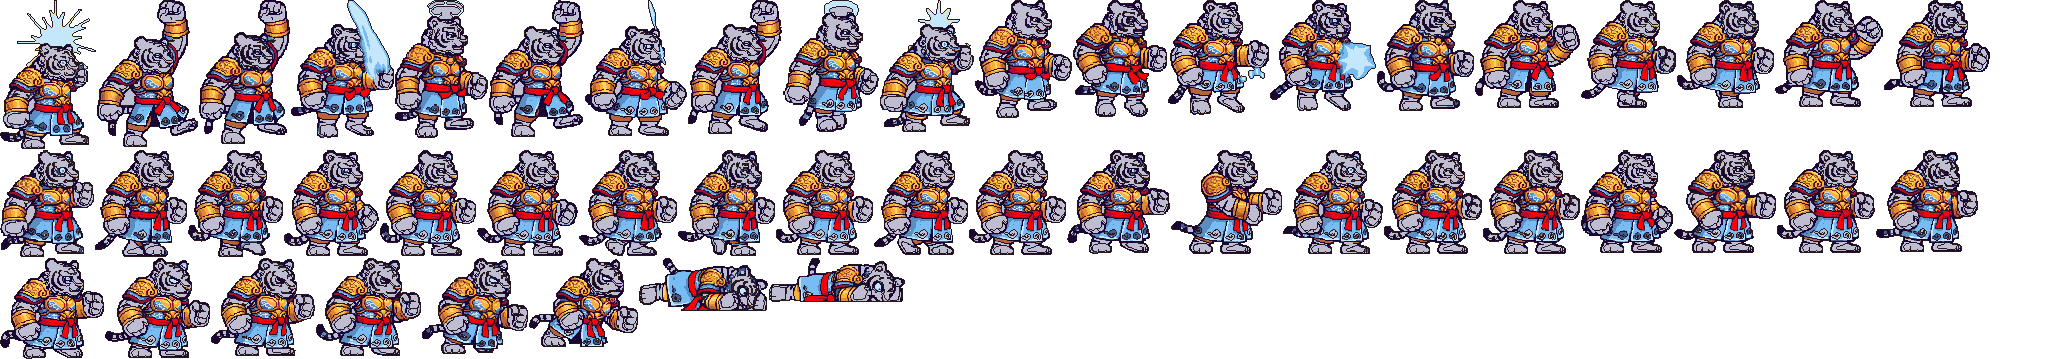
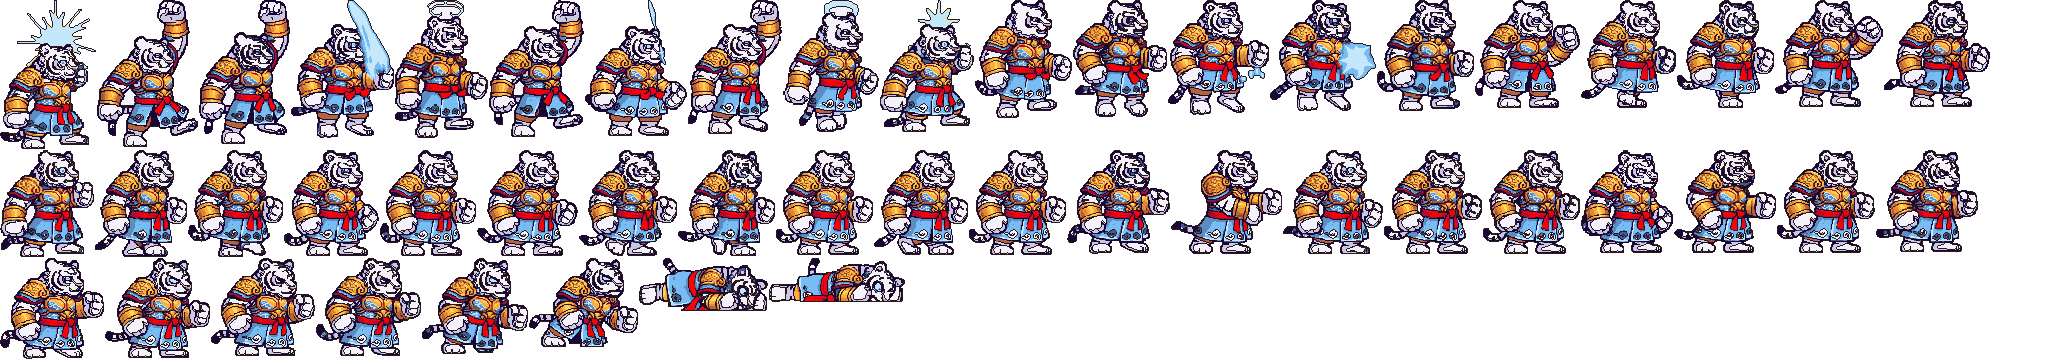
산군 흰 털 바로잡기: 회색 한 가지로 메운 털을 흰 털+옅은 회색 결로(칸 색만 1:1), 덧그린 이펙트 장(파란 베기·머리 고리·별 터짐) 뺌, 도감 초상화도 흰 털
Claude-Session: https://claude.ai/code/session_01E2nhEfyqxMVbe4LYu736id

diff --git a/tools/fix_tiger_spirit_white.py b/tools/fix_tiger_spirit_white.py
@@ -1,0 +1,38 @@
+# 산군(호랑이 신화급) 흰 털 바로잡기(2026-11-27 사용자 "산군 이미지 이상한데"):
+#  PixelLab이 흰 털을 배경으로 지워 구멍 → 회색 한 가지로 메운 탓에 얼굴·몸이 납작한 회색 덩어리로 보임.
+#  메운 자리(예전 시트에서 투명)는 흰 털(#f4f1fa), 예전 크림 선(#efd4c5) 자리는 옅은 회색 결(#ccc7de)로 1:1 칸 색만 바꿈(새로 그리거나 붙이지 않음).
+#  덧그린 이펙트 장(파란 베기 자국·머리 위 고리·맞을 때 별 터짐)은 동작에서 뺌.
+#  쓰는 법: python3 tools/fix_tiger_spirit_white.py <예전 시트 png> <예전 dot.json>   (예전 = git 7d04c87, 구멍 메우기 전)
+import json, sys
+from PIL import Image
+OLD_PNG, OLD_JSON = sys.argv[1], sys.argv[2]
+SHEET, DOT = 'public/assets/dotm/tiger_spirit.png', 'public/data/dotm/tiger_spirit.dot.json'
+FUR, WHITE, LINE, CREAM = (191, 189, 210), (244, 241, 250), (204, 199, 222), (239, 212, 197)
+DROP = {'attack': ['tiger_myth_a1_02', 'tiger_myth_a1_04', 'tiger_myth_a1_05'], 'attack2': ['tiger_myth_a2_03', 'tiger_myth_a2_04'], 'hit': ['tiger_myth_hit_00', 'tiger_myth_hit_01']}
+o, n = json.load(open(OLD_JSON)), json.load(open(DOT))
+os_, ns = Image.open(OLD_PNG).convert('RGBA'), Image.open(SHEET).convert('RGBA')
+po, pn = os_.load(), ns.load()
+for k, r in n['rects'].items():
+    ro = o['rects'][k]
+    for dy in range(r[3]):
+        for dx in range(r[2]):
+            b = pn[r[0] + dx, r[1] + dy]
+            if b[3] == 0 or b[:3] != FUR: continue
+            a = po[ro[0] + dx, ro[1] + dy]
+            pn[r[0] + dx, r[1] + dy] = (*(LINE if a[3] and a[:3] == CREAM else WHITE), 255)
+# 16색 한도: 아주 어두운 붉은 #4c0d1e는 테두리 #291a1f로 합침
+for y in range(ns.height):
+    for x in range(ns.width):
+        q = pn[x, y]
+        if q[3] and q[:3] == (0x4c, 0x0d, 0x1e): pn[x, y] = (0x29, 0x1a, 0x1f, q[3])
+ns.save(SHEET, optimize=True)
+pal = [p for p in n['palette'] if p.lower() not in ('#bfbdd2', '#4c0d1e')] + ['#f4f1fa', '#ccc7de']
+n['palette'] = sorted(set(pal))
+for m, names in DROP.items():
+    c = n['sets']['myth'][m]
+    keep = [i for i, f in enumerate(c['frames']) if f not in names]
+    if len(keep) == len(c['frames']): continue
+    c['frames'] = [c['frames'][i] for i in keep]; c['durs'] = [c['durs'][i] for i in keep]
+    if 'hold' in c and c['hold']['frame'] >= len(c['frames']): c['hold']['frame'] = len(c['frames']) - 1
+open(DOT, 'w').write(json.dumps(n, ensure_ascii=False, indent=1) + '\n')
+print('ok', {m: len(n['sets']['myth'][m]['frames']) for m in DROP}, len(n['palette']), 'colors')
